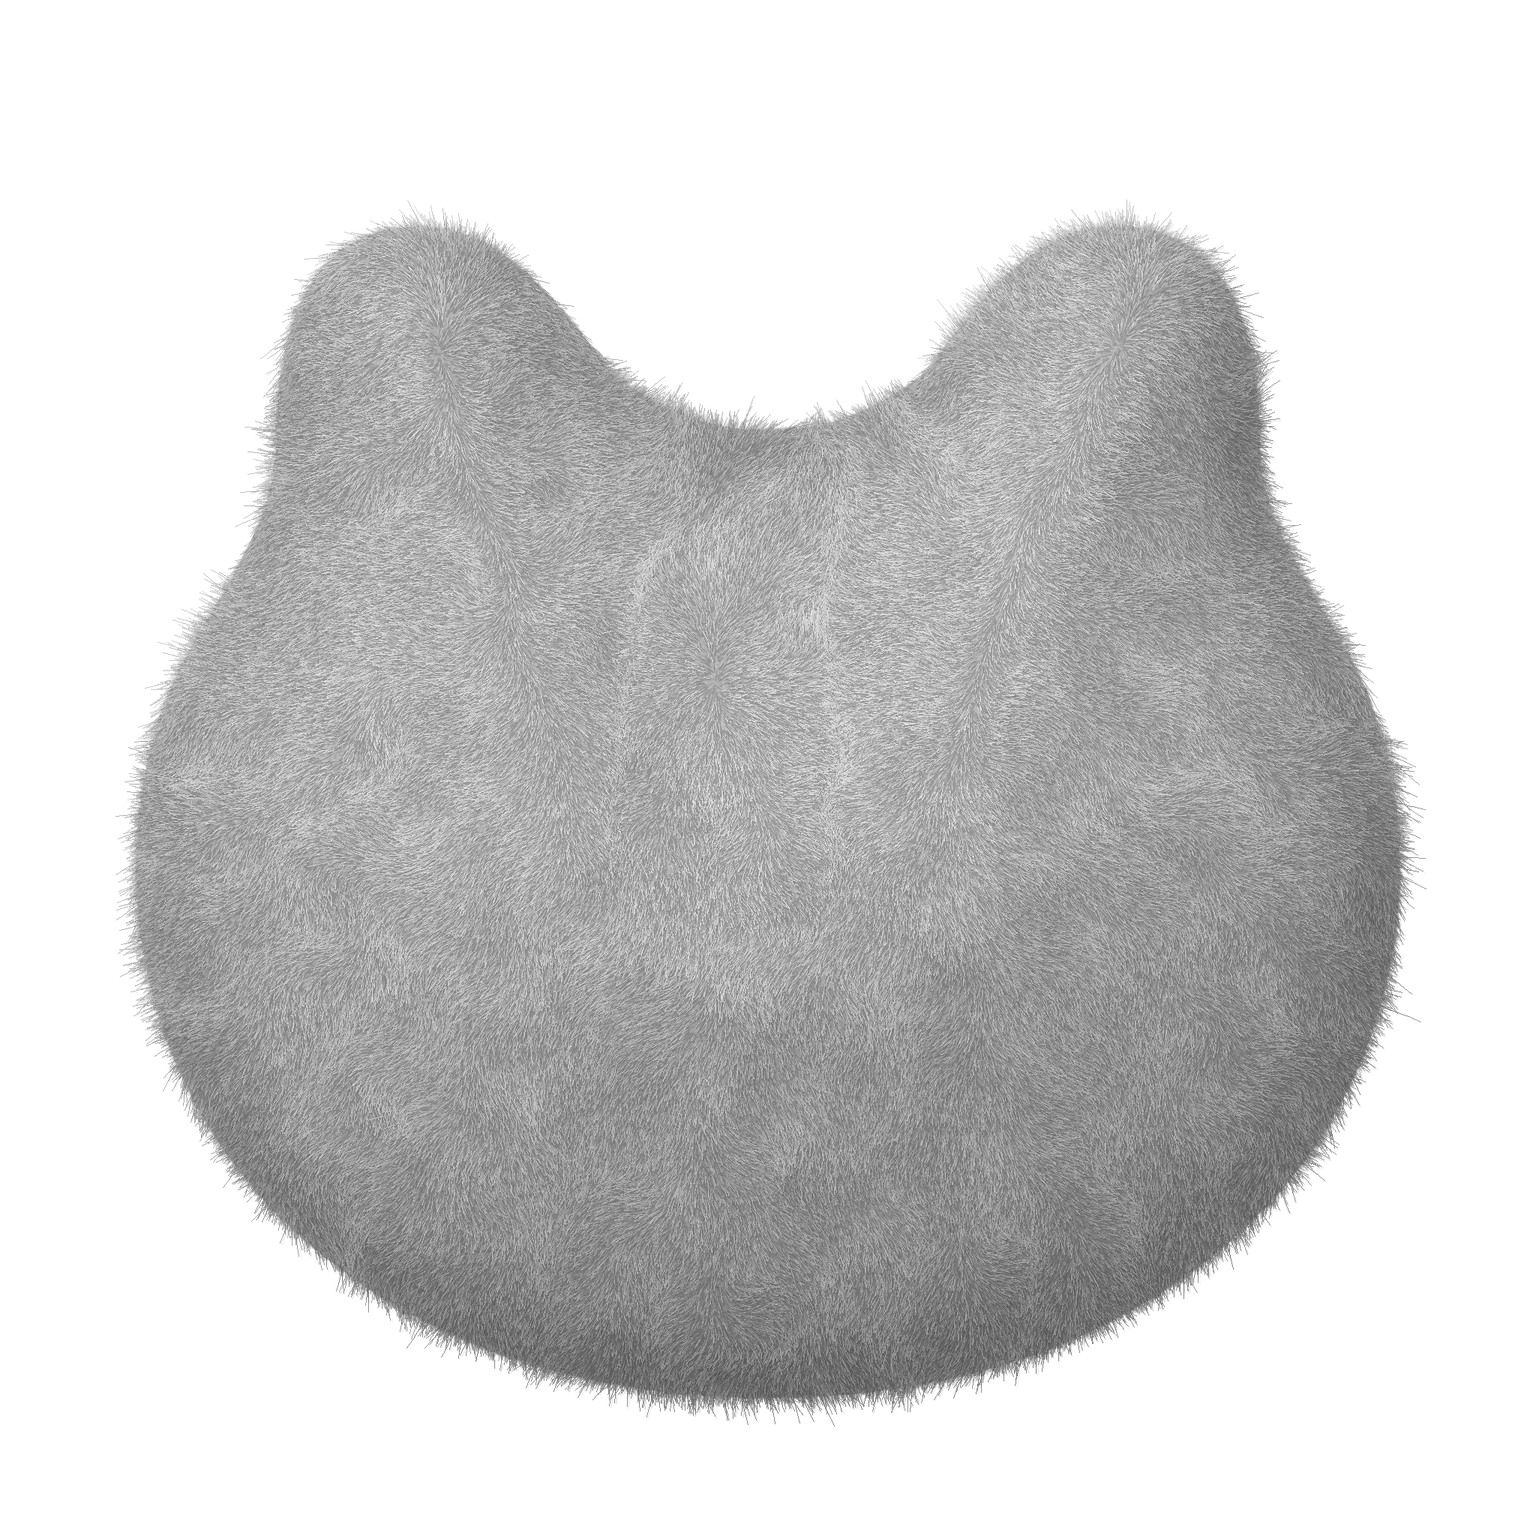
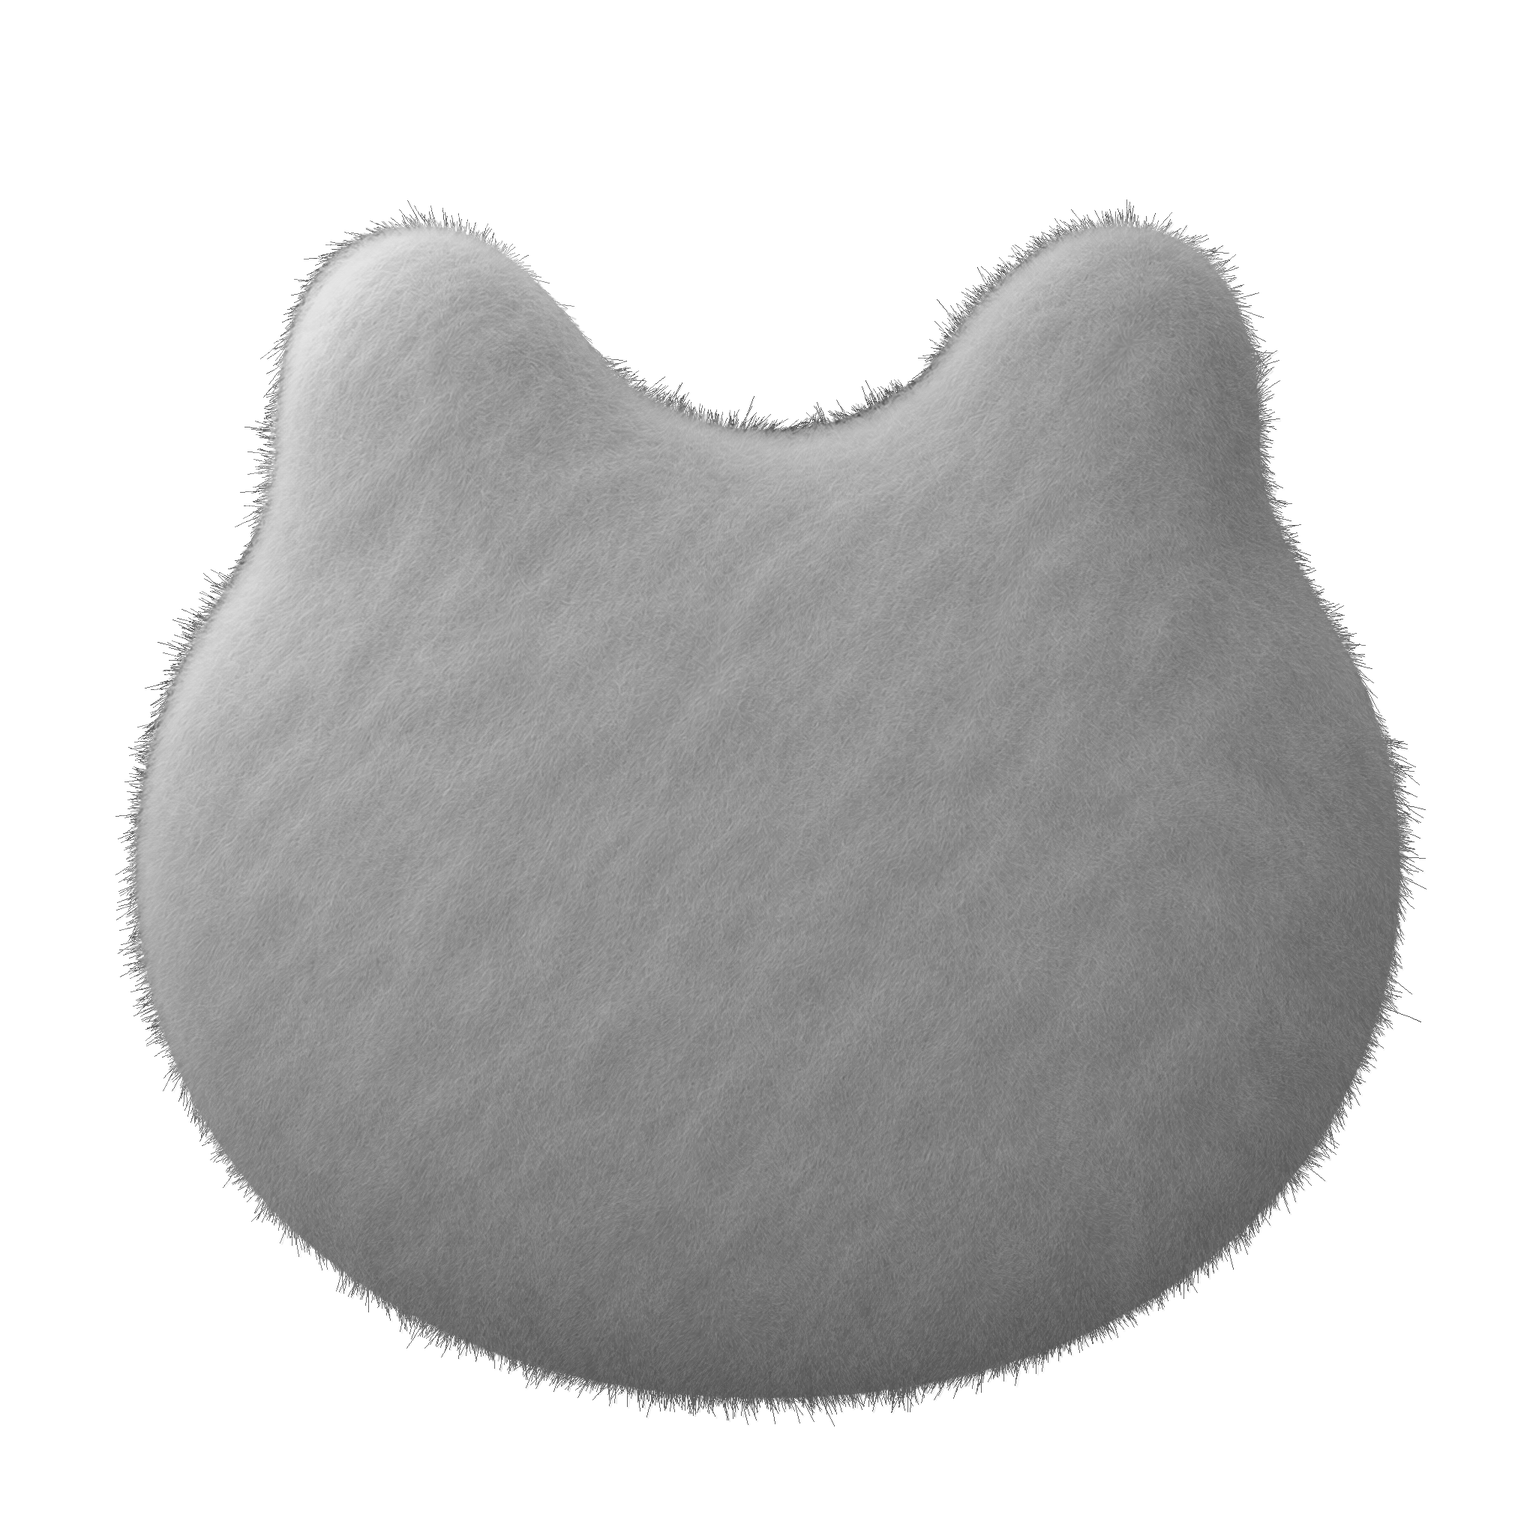
feat(ui): adopt calibrated short-pile character materials
将全部 16 个身体素材统一为已确认的细密短绒风格。保留每个角色的原始透明轮廓、尺寸、眼睛、身份及动画。
共享 Character 使用 256 级线性光着色，并按颜色复用当前渲染结果。联系人、聊天顶部、详情、Work、通知及欢迎页共用同一实现。
新增材质准备脚本，统一处理边缘底色、灰度校准和透明度校验。删除旧的程序化毛绒生成脚本及未使用的基础颜色常量。补充材质维护说明与共享规范。
更新头像测试，检查全部可选身体的加载、灰度、尺寸和亮度基线，并验证颜色映射。临时通知图册和全部角色图册已更新。
验证：角色单元测试、网页头像 E2E、桌面角色动画 E2E、Windows 打包后台与应用身份测试、类型检查和 lint 通过。保留 12 条既有 lint 警告。全部身体的透明轮廓逐像素一致，眼睛素材保持一致。

Changed region(s): [[0.0625, 0.125, 0.9375, 0.9375]]

diff --git a/apps/web/test/avatars.spec.ts b/apps/web/test/avatars.spec.ts
@@ -10,6 +10,7 @@ import { expect, test } from "@playwright/test";
 test("plush identities load, animate and survive profile changes", async ({
   page,
 }, testInfo) => {
+  test.setTimeout(60_000);
   const directory = await mkdtemp(join(tmpdir(), "domos-avatars-"));
   const worker = fork(
     fileURLToPath(
@@ -211,6 +212,51 @@ test("plush identities load, animate and survive profile changes", async ({
     await expect(picker.getByRole("button", { name: /^颜色：/ })).toHaveCount(
       18,
     );
+    const bodies = await picker
+      .locator(".character-body > image")
+      .evaluateAll(async (nodes) => {
+        const sources = new Set(nodes.map((node) => node.getAttribute("href")));
+        return Promise.all(
+          [...sources].map(async (source) => {
+            const image = new Image();
+            image.src = source ?? "";
+            await image.decode();
+            const canvas = document.createElement("canvas");
+            canvas.width = image.width;
+            canvas.height = image.height;
+            const context = canvas.getContext("2d");
+            if (!context) throw new Error("Canvas required");
+            context.drawImage(image, 0, 0);
+            const { data } = context.getImageData(
+              0,
+              0,
+              image.width,
+              image.height,
+            );
+            const levels: number[] = [];
+            let neutral = true;
+            for (let index = 0; index < data.length; index += 4) {
+              if ((data[index + 3] ?? 0) <= 250) continue;
+              neutral &&=
+                data[index] === data[index + 1] &&
+                data[index] === data[index + 2];
+              levels.push(data[index] ?? 0);
+            }
+            levels.sort((a, b) => a - b);
+            return {
+              size: [image.width, image.height],
+              neutral,
+              median: levels[Math.floor(levels.length / 2)] ?? 0,
+            };
+          }),
+        );
+      });
+    expect(bodies).toHaveLength(15);
+    for (const body of bodies) {
+      expect(body.size).toEqual([1024, 1024]);
+      expect(body.neutral).toBe(true);
+      expect(Math.abs(body.median / 255 - 0.55)).toBeLessThan(2 / 255);
+    }
     await checkAvatarSizes();
     await picker.getByRole("button", { name: "换个形象", exact: true }).click();
     await picker

diff --git a/packages/ui/src/web/character.tsx b/packages/ui/src/web/character.tsx
@@ -1,4 +1,4 @@
-import { useId } from "react";
+import { useId, useMemo } from "react";
 import bunny from "../../assets/characters/bunny.webp";
 import capsule from "../../assets/characters/capsule.webp";
 import cat from "../../assets/characters/cat.webp";
@@ -40,10 +40,24 @@ const textures = {
 const channels = (color: string) =>
   [1, 3, 5].map((index) => Number.parseInt(color.slice(index, index + 2), 16));
 
+const linear = (value: number) =>
+  value <= 0.04045 ? value / 12.92 : ((value + 0.055) / 1.055) ** 2.4;
+const srgb = (value: number) =>
+  value <= 0.0031308 ? value * 12.92 : 1.055 * value ** (1 / 2.4) - 0.055;
+
 function tint(color: string) {
   return channels(color).map((channel) => {
-    const mid = channel / 255;
-    return [0, mid * 0.32, mid * 0.7, mid, mid + (1 - mid) * 0.55, 1].join(" ");
+    const ink = linear(channel / 255);
+    return Array.from({ length: 256 }, (_, index) => {
+      const gray = index / 255;
+      // Neutral bodies have a 0.55 median; linear light retains fiber shading.
+      const shade = (linear(gray) / linear(0.55)) ** 0.6;
+      const sheen = 0.08 * Math.max(0, (gray - 0.55) / 0.45) ** 2;
+      const value = Math.min(1, ink * shade);
+      return (
+        Math.round(255 * srgb(value + (1 - value) * sheen)) / 255
+      ).toFixed(6);
+    }).join(" ");
   });
 }
 
@@ -96,7 +110,7 @@ export function Character({
   const id = useId();
   const face = characterFaces[shape] ?? { x: 50, y: 46.4, scale: 1 };
   const texture = textures[shape];
-  const [red, green, blue] = tint(color);
+  const [red, green, blue] = useMemo(() => tint(color), [color]);
   return (
     <svg
       className="character"

diff --git a/packages/ui/test/characters.test.ts b/packages/ui/test/characters.test.ts
@@ -1,3 +1,5 @@
+import { createElement } from "react";
+import { renderToStaticMarkup } from "react-dom/server";
 import { expect, test } from "vitest";
 import {
   characterColors,
@@ -5,6 +7,31 @@ import {
   characterNames,
   characterSeed,
 } from "../src/characters.ts";
+import { Character } from "../src/web/character.tsx";
+
+test("plush shading retains the Bot color at the calibrated material midpoint", () => {
+  for (const { color } of characterColors) {
+    const html = renderToStaticMarkup(
+      createElement(Character, { shape: "cloud", color, state: "idle" }),
+    );
+    const tables = [...html.matchAll(/tableValues="([^"]+)"/g)].map((match) =>
+      (match[1] ?? "").split(" ").map(Number),
+    );
+    expect(tables).toHaveLength(3);
+    tables.forEach((table, channel) => {
+      expect(table).toHaveLength(256);
+      const ink =
+        Number.parseInt(color.slice(1 + channel * 2, 3 + channel * 2), 16) /
+        255;
+      expect(Math.abs((table[140] ?? 0) - ink)).toBeLessThan(1 / 255);
+      expect(table[0]).toBe(0);
+      table.forEach((value, index) => {
+        expect(value).toBeGreaterThanOrEqual(table[index - 1] ?? 0);
+        expect(value).toBeLessThanOrEqual(1);
+      });
+    });
+  }
+});
 
 test("saved identities retain their shape and color", () => {
   expect(characterIdentity("00000000-0000-4000-8000-000000000001")).toEqual({

diff --git a/packages/ui/src/characters.ts b/packages/ui/src/characters.ts
@@ -72,7 +72,6 @@ const seedColors = [
   "#9dabb8",
 ] as const;
 
-export const characterBaseColor = "#b3df32";
 export const brandCharacter = {
   color: "#c6f33c",
   shape: "cat",

diff --git a/packages/ui/scripts/prepare-characters.py b/packages/ui/scripts/prepare-characters.py
@@ -1,0 +1,44 @@
+import sys
+from pathlib import Path
+
+import numpy as np
+from PIL import Image, ImageFilter
+
+
+def linear(value):
+    return np.where(value <= 0.04045, value / 12.92, ((value + 0.055) / 1.055) ** 2.4)
+
+
+directory = Path(__file__).resolve().parent.parent / "assets" / "characters"
+source = Path(sys.argv[1])
+materials = []
+for path in sorted(directory.glob("*.webp")):
+    if path.name.startswith("eye-"):
+        continue
+    original = Image.open(path).convert("RGBA")
+    alpha = original.getchannel("A")
+    image = Image.open(source / f"{path.stem}.png").convert("L")
+    image = image.resize(original.size, Image.Resampling.LANCZOS)
+    # Extend fiber color into matte pixels before applying the retained alpha.
+    edge = np.asarray(alpha.filter(ImageFilter.MinFilter(17))) < 255
+    pixels = np.asarray(image).copy()
+    matte = edge & (pixels < 80)
+    pixels[matte] = np.asarray(image.filter(ImageFilter.MaxFilter(17)))[matte]
+    image = Image.fromarray(pixels)
+    gray = np.asarray(image, dtype=float) / 255
+    interior = np.asarray(alpha) > 250
+    median = float(np.median(gray[interior]))
+    if median <= 0:
+        raise ValueError(f"{path.name}: body material has no illumination")
+    value = np.clip(linear(gray) * float(linear(0.55)) / float(linear(median)), 0, 1)
+    gray = np.where(value <= 0.0031308, value * 12.92, 1.055 * value ** (1 / 2.4) - 0.055)
+    luma = Image.fromarray(np.rint(gray * 255).astype("uint8"))
+    material = Image.merge("RGBA", (luma, luma, luma, alpha))
+    assert material.size == original.size
+    assert np.array_equal(np.asarray(material.getchannel("A")), np.asarray(alpha))
+    assert abs(float(np.median(np.asarray(luma)[interior])) / 255 - 0.55) < 1 / 255
+    materials.append((path, material))
+
+for path, material in materials:
+    material.save(path, lossless=True, method=6)
+    print(f"Prepared {path.name}", flush=True)

diff --git a/AGENTS.md b/AGENTS.md
@@ -80,7 +80,7 @@ Pi Durable 1.4.0 stores Bot tasks. Native Harness processes own model loops. Dom
 - Use comments for non-obvious domain or OS constraints. Keep change history in Git.
 - Reuse `packages/ui` controls and tokens. Cards own their surface, border, and radius. SettingRow and PanelRow own content insets. Put setting-specific notices in SettingRow and group-wide notices outside the card. Use SearchField for search inputs and InlineNotice for lightweight events. Keep search logic and event state in their feature owners. Share navigation styles and Dialog footer actions. Build visual hierarchy with spacing and typography. Add labels and descriptions only when they provide needed information.
 - Share neutral plush body materials and tonal color mapping through `packages/ui`. Keep body alpha, eye assets and motion independent of material color. Application notices use the normal popup surface and readable text; error and warning colors belong to their status icons. Connection recovery uses a neutral notice.
-- Share avatar pointer motion through `packages/ui`. Keep hit areas fixed and preserve each control's action. Use the shared Loading indicator for content reads and Button pending for actions. Keep existing content during refresh and retain actionable status text.
+- Share avatar pointer motion through `packages/ui`. Keep hit areas fixed and preserve each control's action. Body materials retain each role's alpha and use neutral grayscale with a 0.55 sRGB median. Character applies shared linear-light color mapping; eyes and motion remain separate. Use the shared Loading indicator for content reads and Button pending for actions. Keep existing content during refresh and retain actionable status text.
 - Share status badges through `packages/ui` StatusDot and its vivid semantic tokens. Keep status text and loading states accurate. Composer actions derive their background from the Bot color and retain white icons in both themes. Empty composers show the microphone; text, attachments and materials retain Send, and active empty composers retain Stop.
 - Share message links through `packages/ui/markdown`. Keep user text literal and use GFM autolinks. Derive link colors from the current Bot and theme. Website icons retain their own colors and a fixed inline size.
 - Stop revokes the active turn and terminates its native Harness process tree. Settle the UI and submissions without joining Durable cleanup. Retain control barriers for issued computer actions until they settle. Ignore events from stopped turns.

diff --git a/packages/ui/assets/characters/README.md b/packages/ui/assets/characters/README.md
@@ -1,0 +1,18 @@
+# Character body materials
+
+Bodies use fine short plush fibers and soft studio lighting. Each lossless WebP
+stores neutral gray at a median sRGB level of 0.55. The shared Character component
+maps this material to the saved Bot color in linear light. Eyes and motion remain
+separate layers.
+
+To prepare approved body renders, align each body with its existing asset and
+place one PNG per body in a directory. Use the matching WebP basename. Run with
+Python, Pillow and NumPy:
+
+```sh
+python packages/ui/scripts/prepare-characters.py <render-directory>
+```
+
+The preparation script retains each existing body's dimensions and alpha. Review
+all bodies at 40, 64 and 160 pixels in both themes before replacing assets. Keep
+eye assets separate from body preparation.
